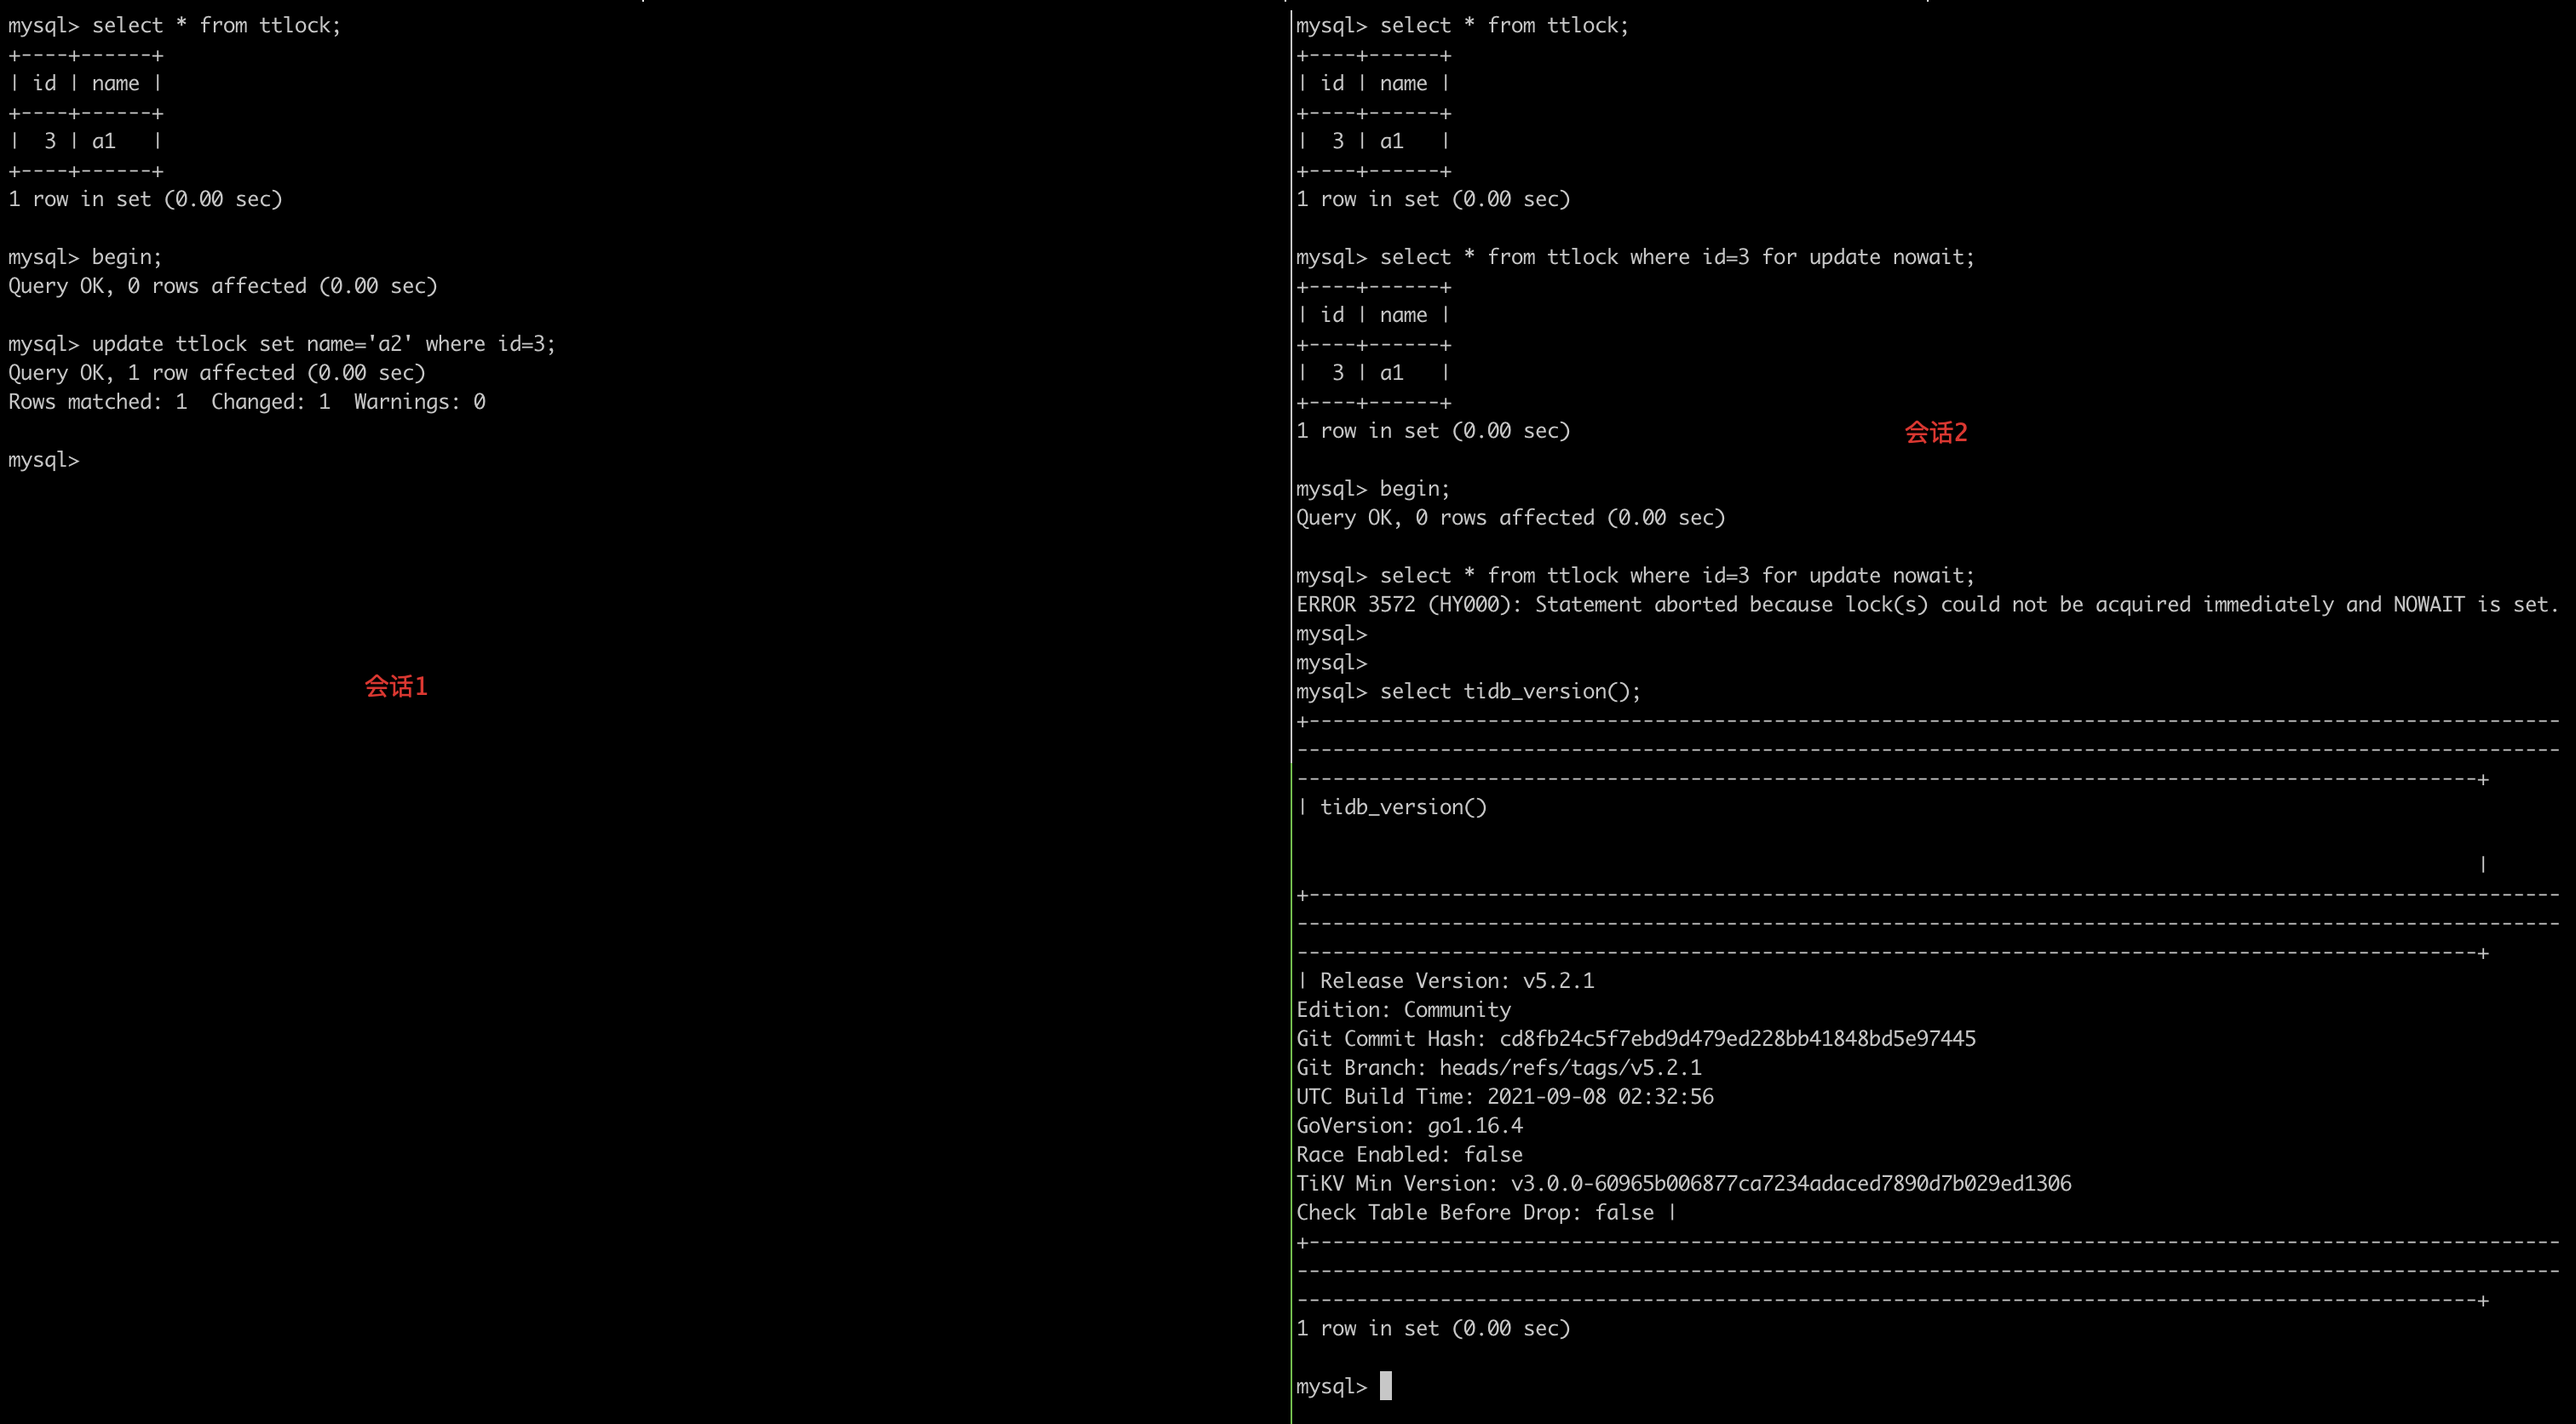
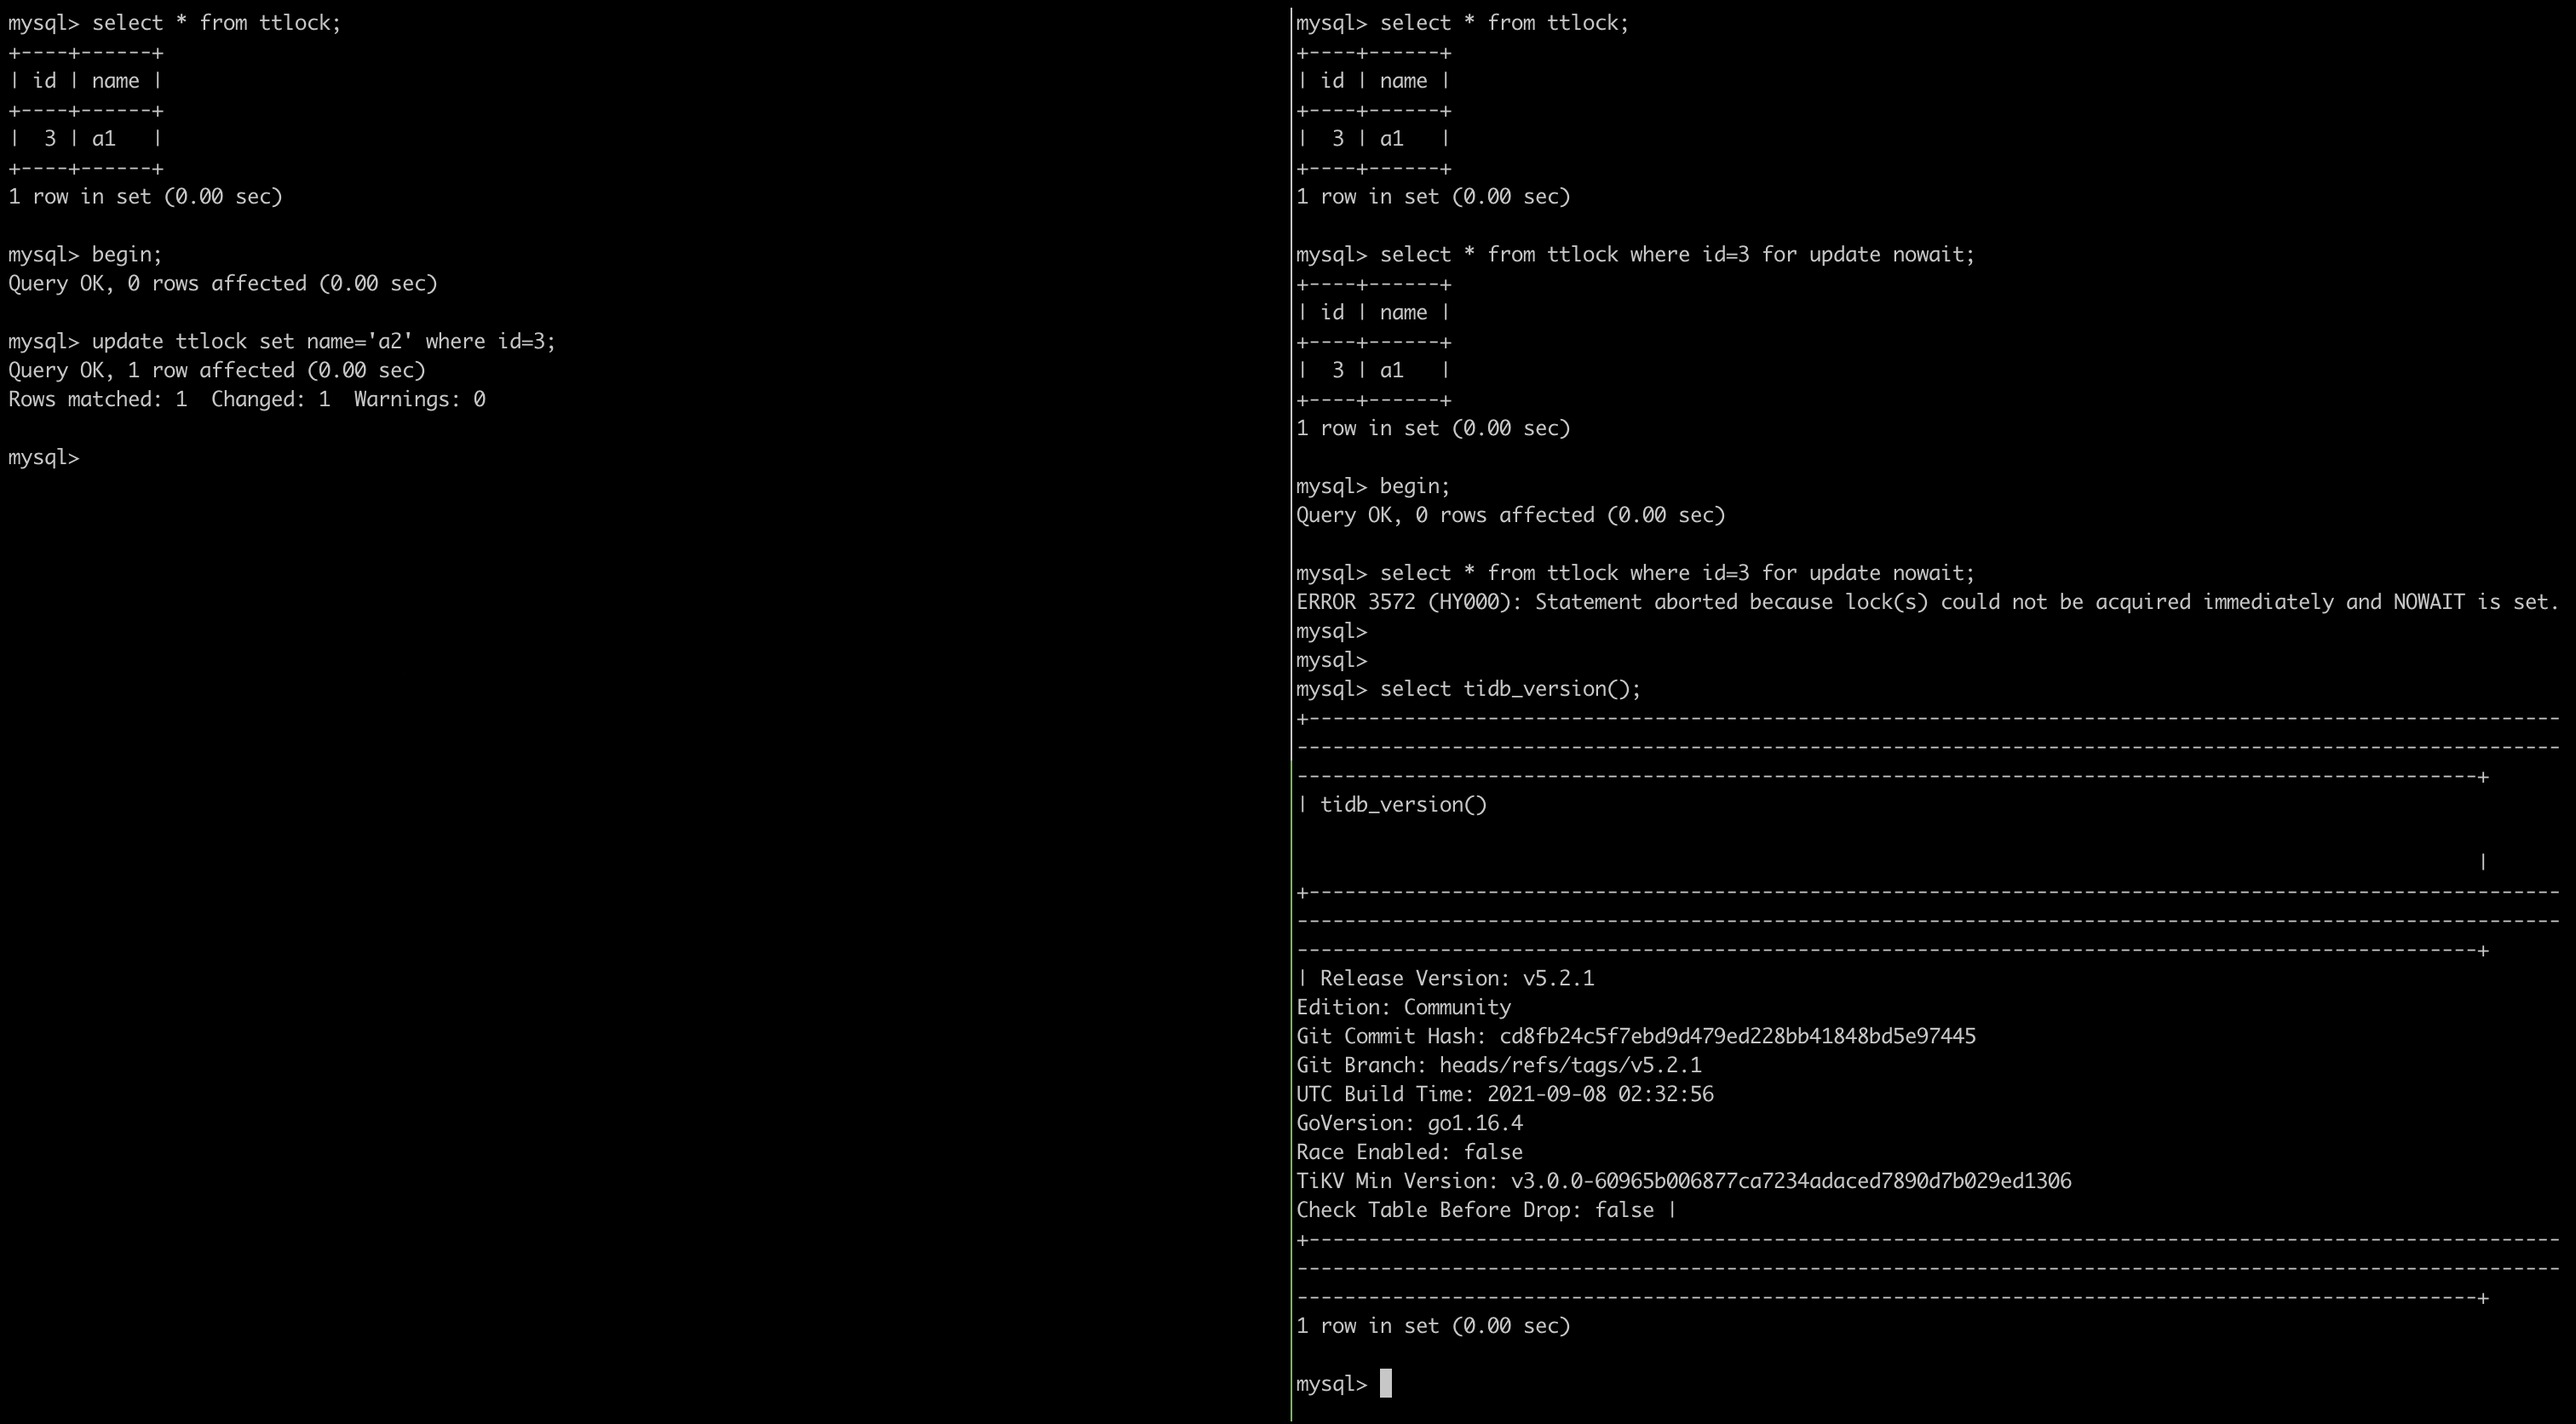
dev: update autocommit_selectforupdate_nowaitlock.png (#21139)

diff --git a/develop/dev-guide-transaction-restraints.md b/develop/dev-guide-transaction-restraints.md
@@ -724,9 +724,9 @@ mysql> SELECT * FROM T2;
 
 另外注意，无论是大小限制还是行数限制，还要考虑事务执行过程中，TiDB 做编码以及事务额外 Key 的开销。在使用的时候，为了使性能达到最优，建议每 100 ～ 500 行写入一个事务。
 
-## 自动提交的 SELECT FOR UPDATE 语句不会等锁
+## 自动提交的 `SELECT FOR UPDATE` 语句不会等锁
 
-自动提交下的 SELECT FOR UPDATE 目前不会加锁。效果如下图所示：
+目前，自动提交下的 `SELECT FOR UPDATE` 不会加锁。下图显示了在两个不同会话中的效果：
 
 ![TiDB中的情况](/media/develop/autocommit_selectforupdate_nowaitlock.png)
 
